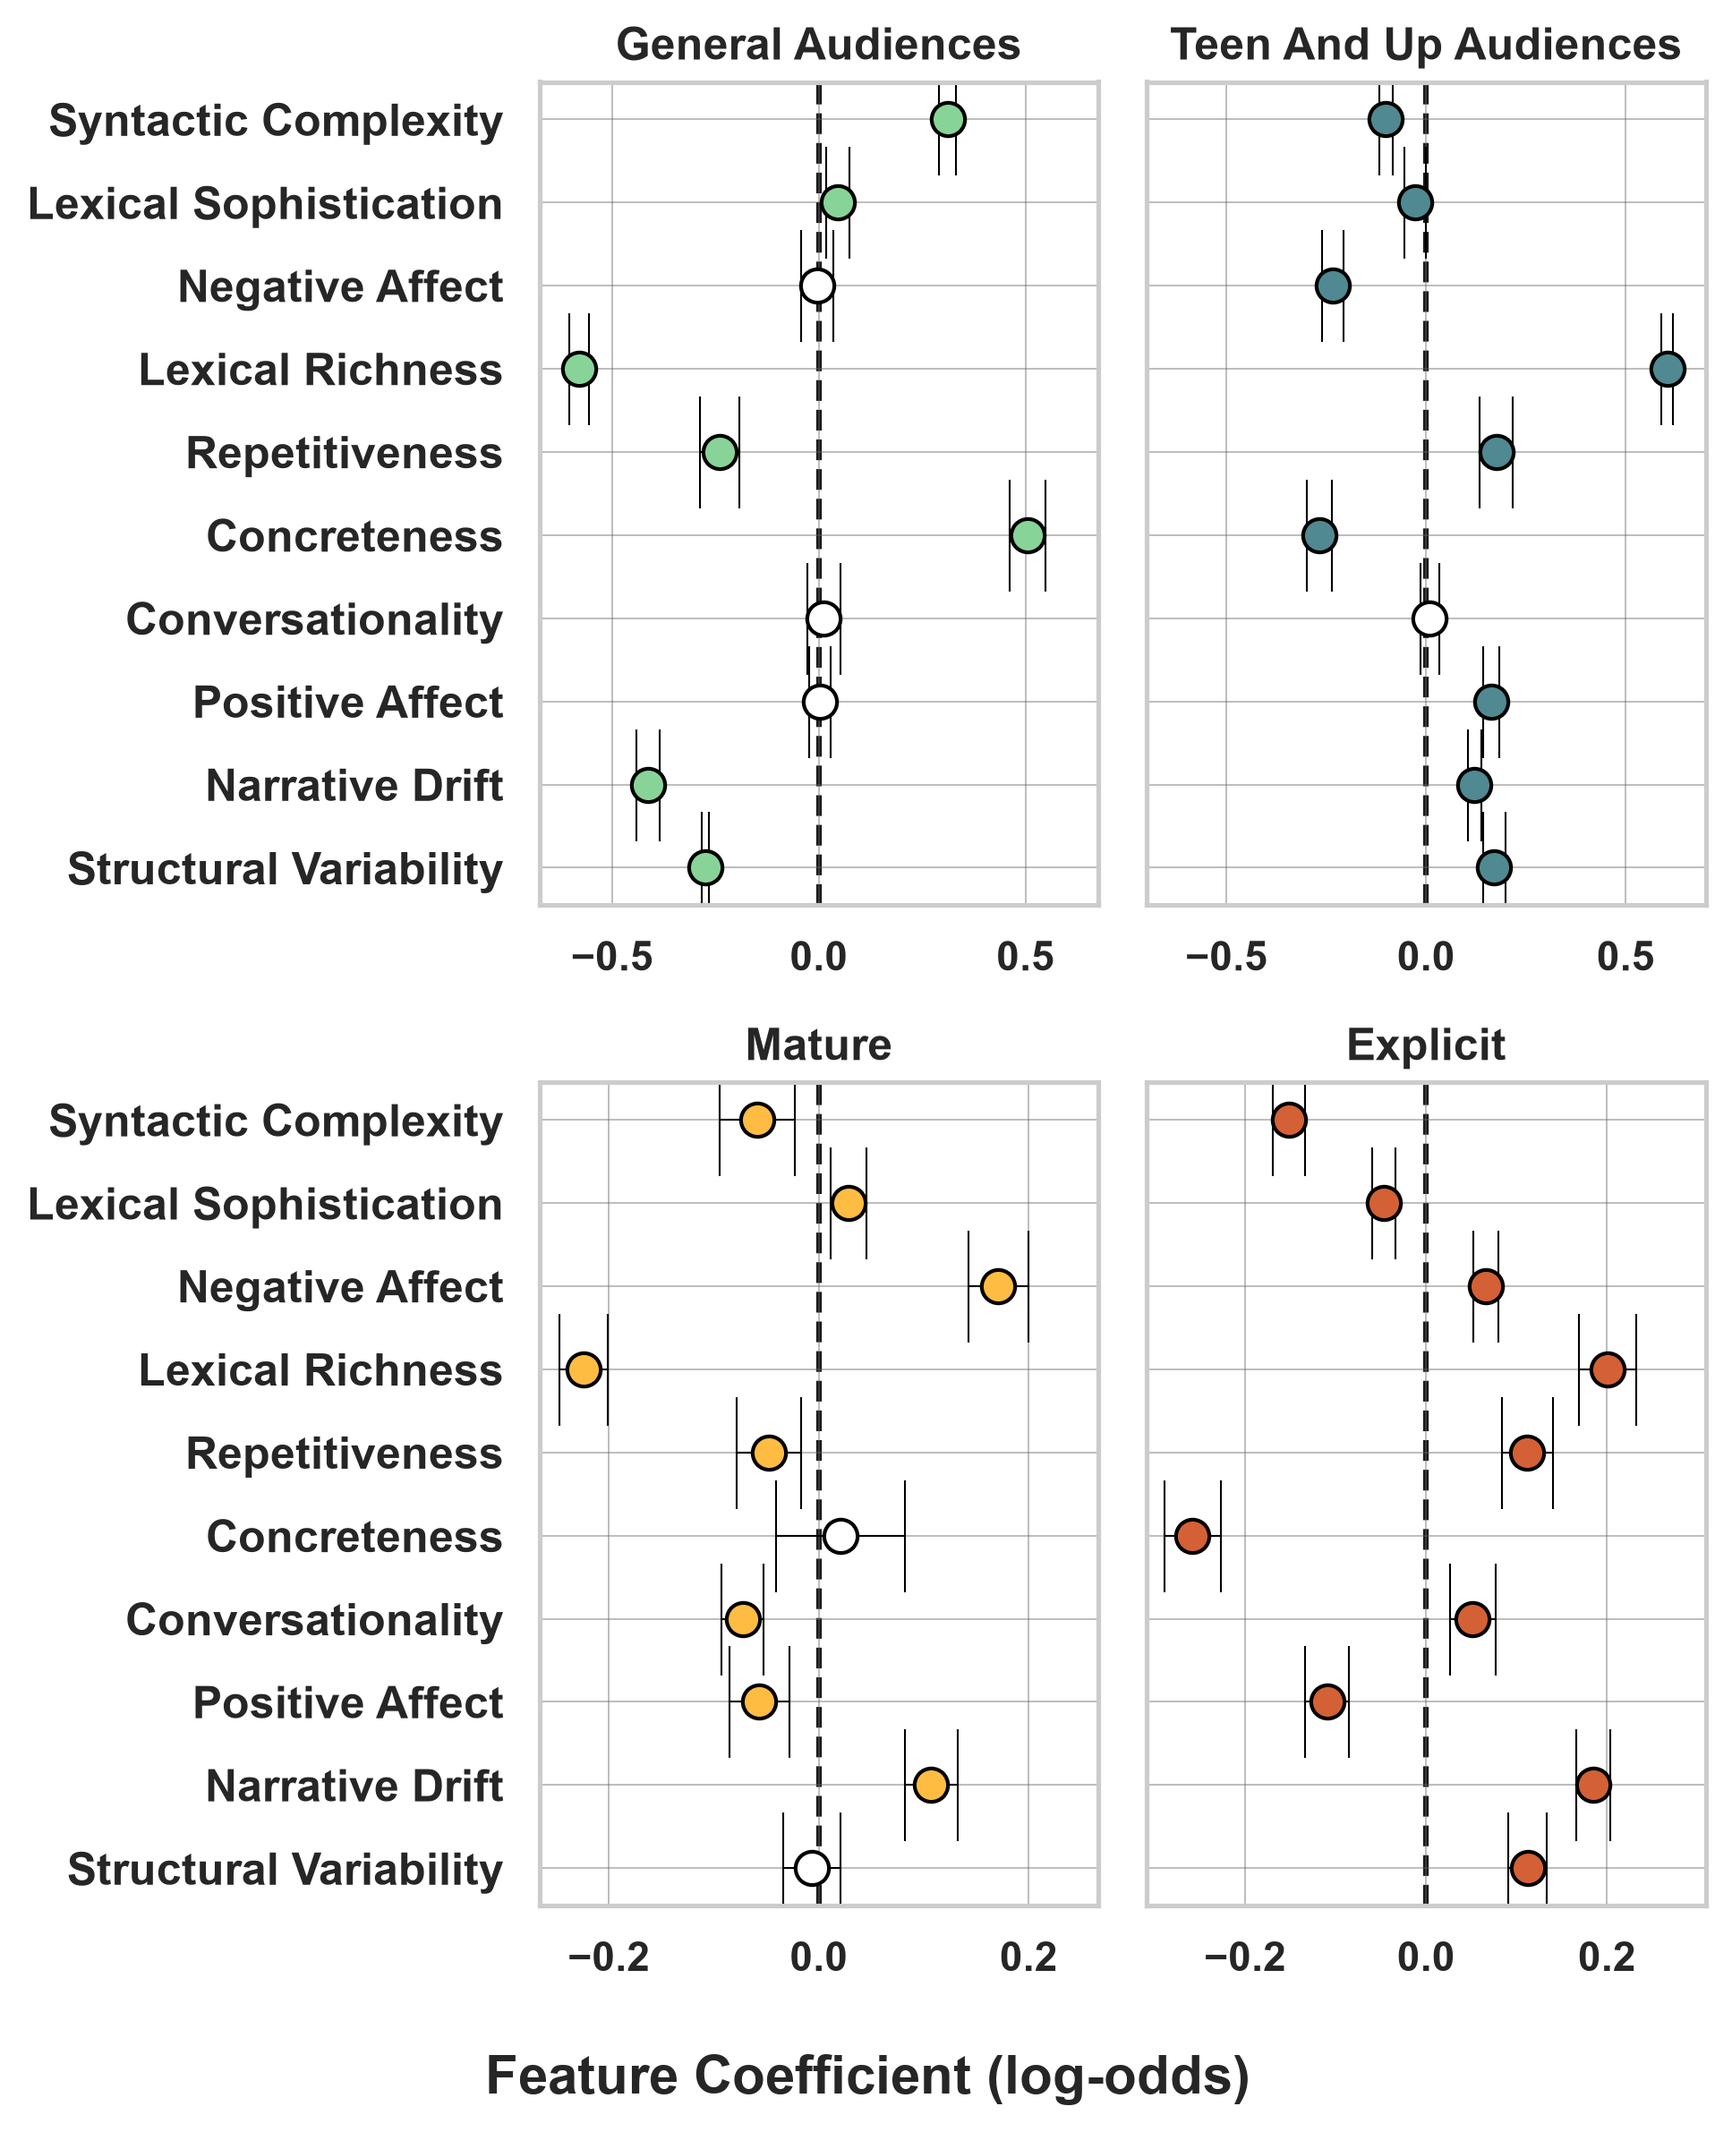
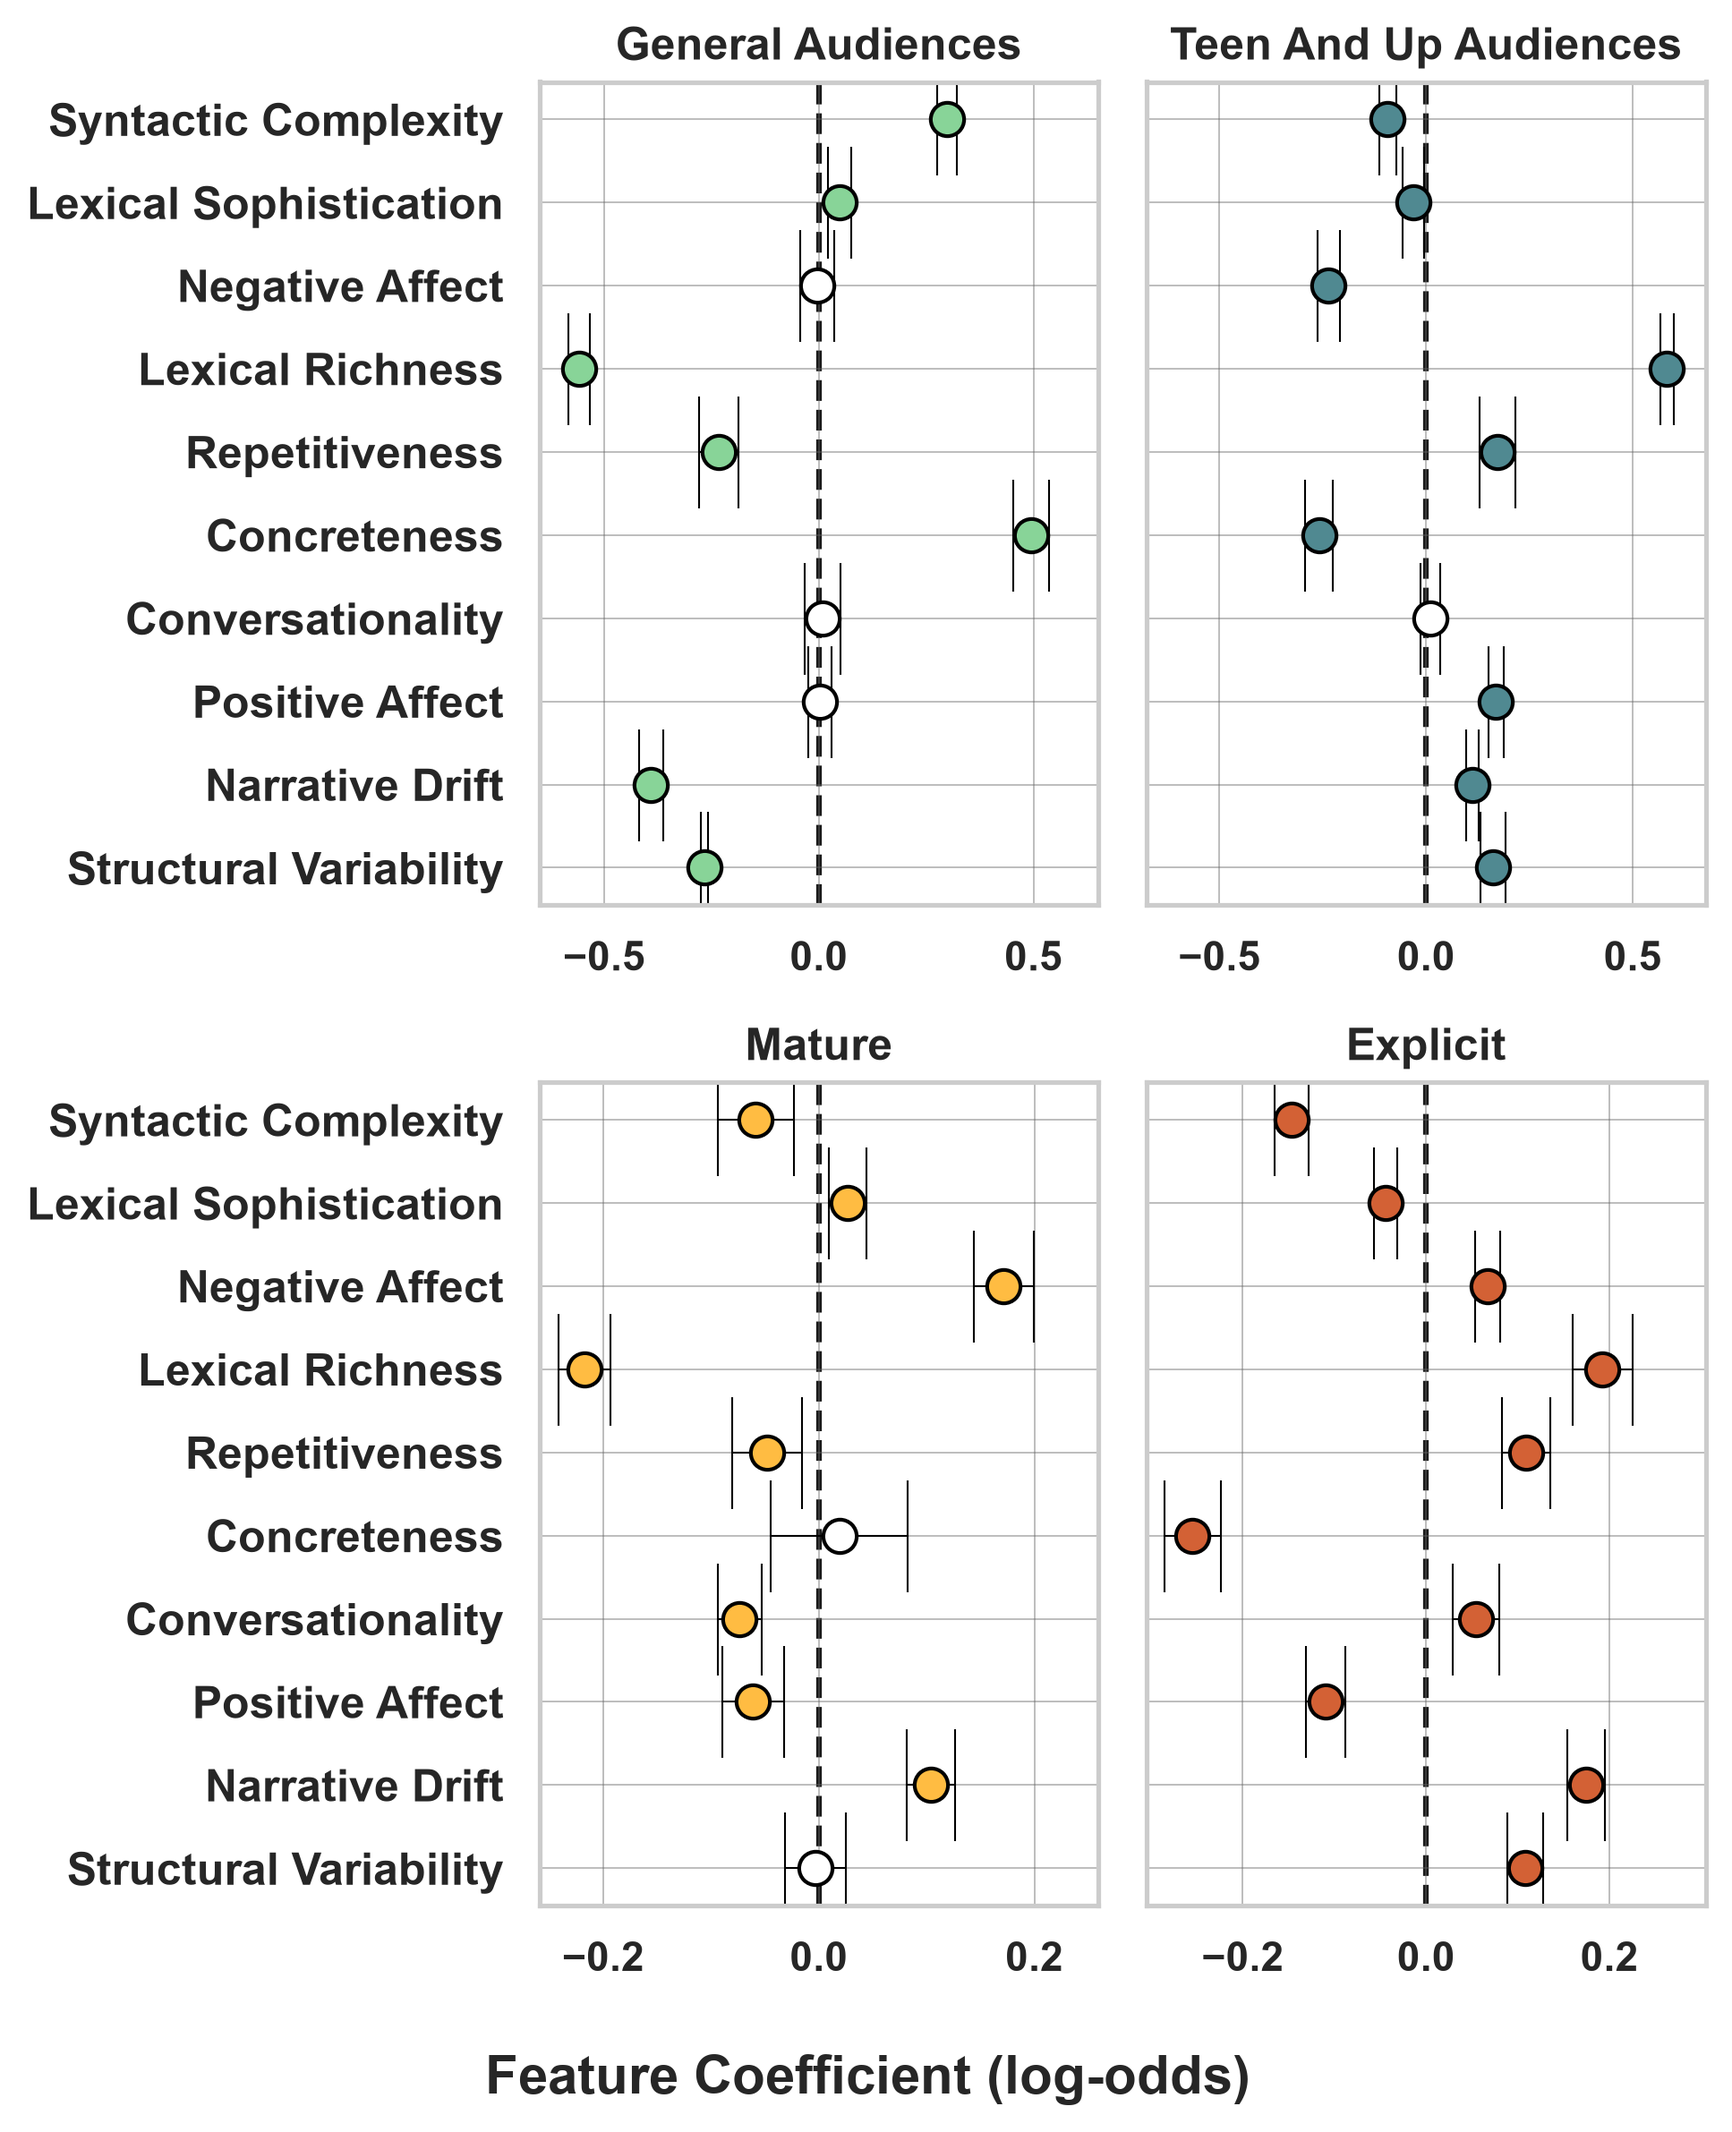
changing weights to 'balanced' for class weights, also adding to pipeline lmao

diff --git a/scripts/classification.py b/scripts/classification.py
@@ -59,7 +59,7 @@ TARGETS = {
             "Explicit": "#D36135",
         },
         "grid": (2, 2),
-        "weights": [0.344, 0.355, 0.136, 0.165],
+        "weights": "balanced",
     },
 }
 
@@ -77,10 +77,15 @@ def load_target(df, spec):
     return X, y, class_labels, weights
 
 
-def run_classification(X, y, class_labels, random_state=1999, n_splits=5):
+def run_classification(X, y, class_labels, weights, random_state=1999, n_splits=5):
     predictor_columns = X.columns
     model = make_pipeline(
-        LogisticRegression(solver="lbfgs", max_iter=1000, random_state=random_state),
+        LogisticRegression(
+            solver="lbfgs",
+            max_iter=1000,
+            random_state=random_state,
+            class_weight=weights,
+        ),
     )
     cv = KFold(n_splits=n_splits, shuffle=True, random_state=random_state)
 
@@ -302,7 +307,7 @@ def run_target(df, target_name, spec):
 
     X, y, class_labels, weights = load_target(df, spec)
     scores, per_class_scores, coef_array, cm, predictor_columns = run_classification(
-        X, y, class_labels
+        X, y, class_labels, weights
     )
 
     print_summary(scores, per_class_scores, class_labels)
